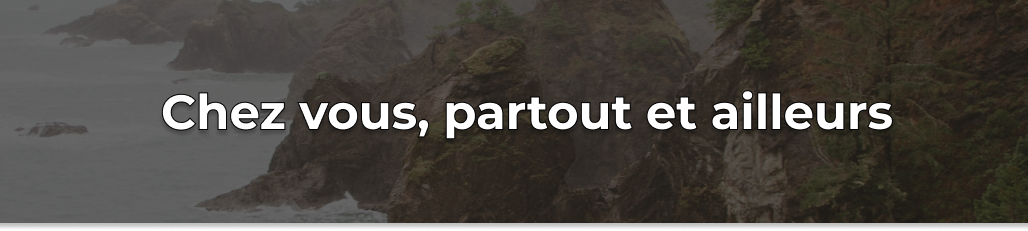
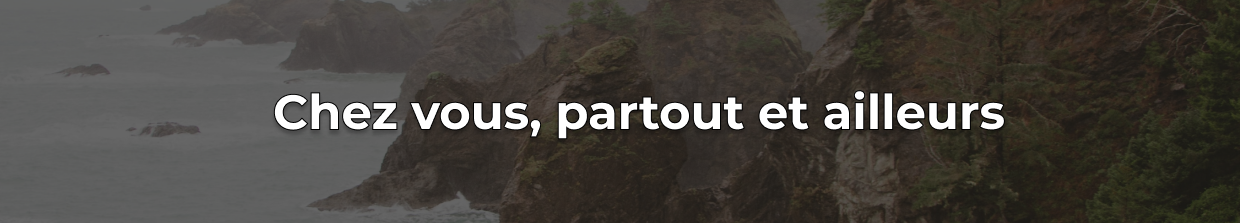
page_home

diff --git a/src/components/Banner/Banner.jsx b/src/components/Banner/Banner.jsx
@@ -2,15 +2,16 @@ import logoKasa from "../../assets/LOGO.svg"
 import { Link } from "react-router-dom"
 
 
-export default function Banner() {
+export default function Banner(props) {
     return (
         <div className="banner">
-        <img src= {logoKasa} alt="logo"/>
+            <img src={logoKasa} alt="logo" />
             <div className="nav">
-          <ul> 
-            <li> <Link to="/">Accueil</Link></li>
-            <li><Link to="/Apropos">A Propos</Link></li>
-            </ul>
+                <ul>
+                    
+                    <li> <Link to="/">Accueil</Link></li>
+                    <li><Link to="/Apropos">A Propos</Link></li>
+                </ul>
             </div>
         </div>
     )

diff --git a/src/pages/Home/Home.scss b/src/pages/Home/Home.scss
@@ -1,12 +1,13 @@
 .body-home {
     display: flex;
+    margin: auto;
+    max-width: 1240px;
     flex-direction: column;
-    padding: 40px 100px;
     gap: 40px;
 }
 
 .body-home>img {
-   max-width: 100%;
+    width: 100%;
     border-radius: 25px;
     margin: auto;
     box-sizing: border-box;
@@ -17,7 +18,7 @@
     border-radius: 25px;
     padding: 50px;
     display: grid;
-    grid-template-columns: 20vw 20vw 20vw;
+    grid-template-columns: repeat(3, 1fr);
     grid-gap: 60px;
     grid-auto-rows: 20vw;
     width: auto;

diff --git a/src/components/Vignette/Vignette.scss b/src/components/Vignette/Vignette.scss
@@ -1,14 +1,17 @@
 .corps-vignette {
     background-color: $primary-color;
-    width: 100%;
+    width: minmax(100%, 340px);
+    max-width: 340px;
     height: 100%;
     border-radius: 10px;
 }
 
 .corps-vignette>div {
     display: flex;
-    width: 20vw;
+    width: 100%;
+    max-width: 340px;
     height: 20vw;
+    max-height: 340px;
     position: relative;
     bottom: 20vw;
 }

diff --git a/src/components/Banner/Banner.scss b/src/components/Banner/Banner.scss
@@ -16,9 +16,9 @@
             text-decoration: none;
         }
 
-        a:hover {
-            color: #220450;
-            border-bottom: 3px solid #220450;
+        a:focus {
+
+            border-bottom: 2px solid black;
         }
 
         ul {

diff --git a/src/style/base.scss b/src/style/base.scss
@@ -9,5 +9,11 @@
 
 body {
   margin: 0;
-  padding:20px ;
+  padding: 45px 100px 0 100px;
+}
+
+.App {
+  gap: 50px;
+  display: flex;
+  flex-direction: column;
 }
